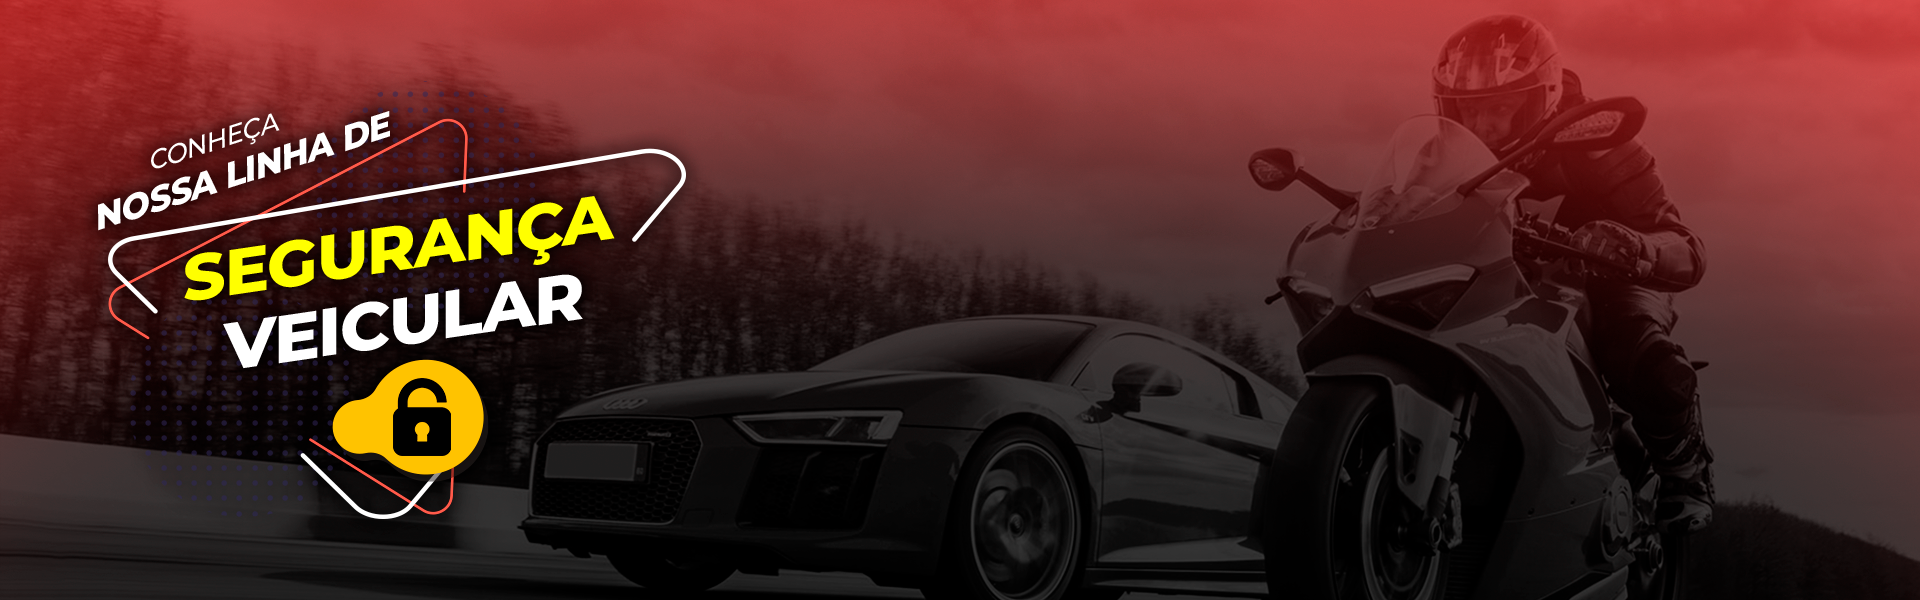
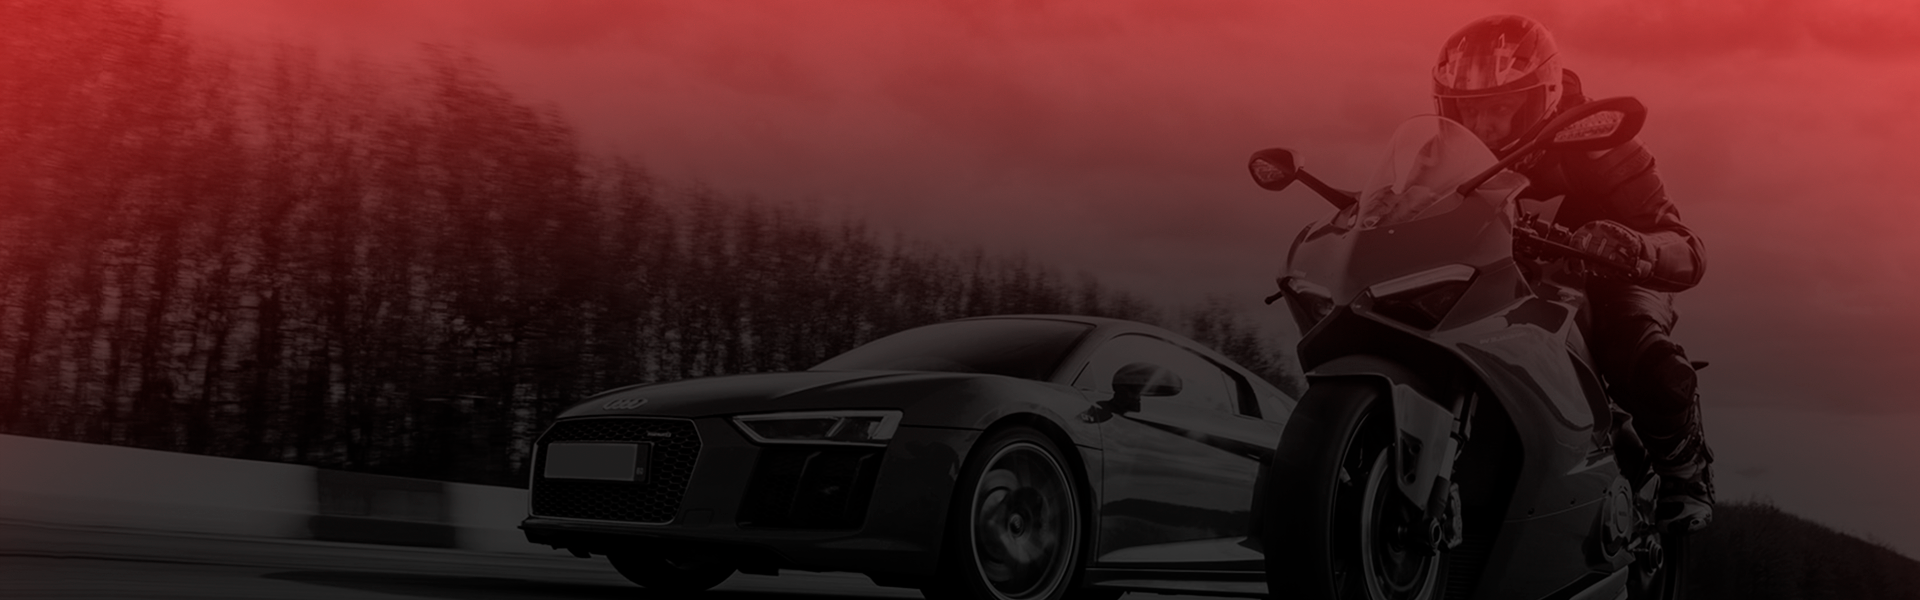
feature: new responsive itens

Changed region(s): [[0.0312, 0.15, 0.375, 0.87]]

diff --git a/src/pages/Home/index.tsx b/src/pages/Home/index.tsx
@@ -1,6 +1,7 @@
 import praMotoImage from '@/assets/pramotocard.png'
 import proCarImage from '@/assets/procarcard.png'
-import bannerImage from '@/assets/bannersite.png'
+import bannerBackgroundImage from '@/assets/bannersite.png'
+import bannerTextImage from '@/assets/bannerText.svg'
 import { Card } from '@/components/Card'
 import { Footer } from '@/components/Footer'
 import { Header } from '@/components/Header'
@@ -14,6 +15,7 @@ import {
   PinsContainer,
 } from './styles'
 import { WhatsappButton } from '@/components/WhatsappButton'
+import { useEffect, useState } from 'react'
 
 interface PinData {
   icon:
@@ -65,18 +67,51 @@ const products: Product[] = [
 export default function Home() {
   const firstArray = pins.slice(0, 4)
   const secondArray = pins.slice(4)
+  const [isMobile, setIsMobile] = useState(false)
+
+  useEffect(() => {
+    if (window && window.innerWidth <= 400) {
+      setIsMobile(true)
+    }
+  }, [])
+
   return (
     <>
       <Header />
       <BannerContainer>
         <Image
-          src={bannerImage}
+          src={bannerBackgroundImage}
           quality={100}
-          alt="Logo protecarmoto"
+          alt=""
           fill
           priority
           className="banner"
         />
+        {isMobile ? (
+          <div>
+            <Image
+              src={bannerTextImage}
+              quality={100}
+              width={250}
+              height={250}
+              alt="banner text"
+              priority
+              className="bannerText"
+            />
+          </div>
+        ) : (
+          <div>
+            <Image
+              src={bannerTextImage}
+              quality={100}
+              width={400}
+              height={400}
+              alt="banner text"
+              priority
+              className="bannerText"
+            />
+          </div>
+        )}
       </BannerContainer>
       <HomeContainer>
         <PinsContainer>

diff --git a/src/pages/Home/styles.ts b/src/pages/Home/styles.ts
@@ -26,6 +26,28 @@ export const BannerContainer = styled('div', {
   position: 'relative',
   display: 'block',
 
+  '> div': {
+    position: 'absolute',
+    top: 0,
+    left: 0,
+    right: 0,
+    width: '100%',
+    height: '100%',
+    display: 'flex',
+    alignItems: 'center',
+    maxWidth: '1440px',
+    margin: 'auto',
+
+    '@media(max-width: 800px)': {
+      flexDirection: 'column',
+      justifyContent: 'center',
+    },
+
+    '@media(max-width: 400px)': {
+      padding: '0',
+    },
+  },
+
   '.banner': {
     objectFit: 'cover',
   },
